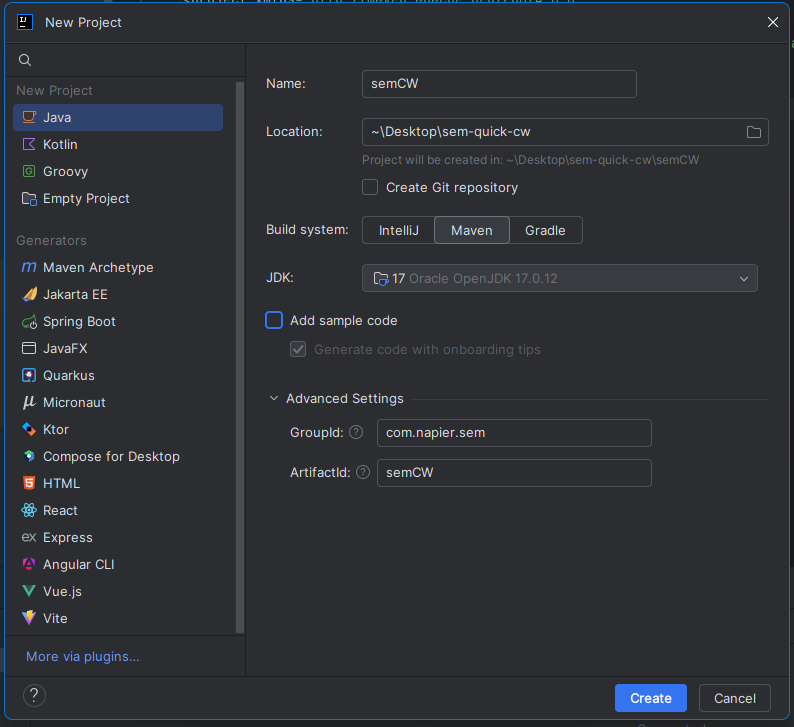
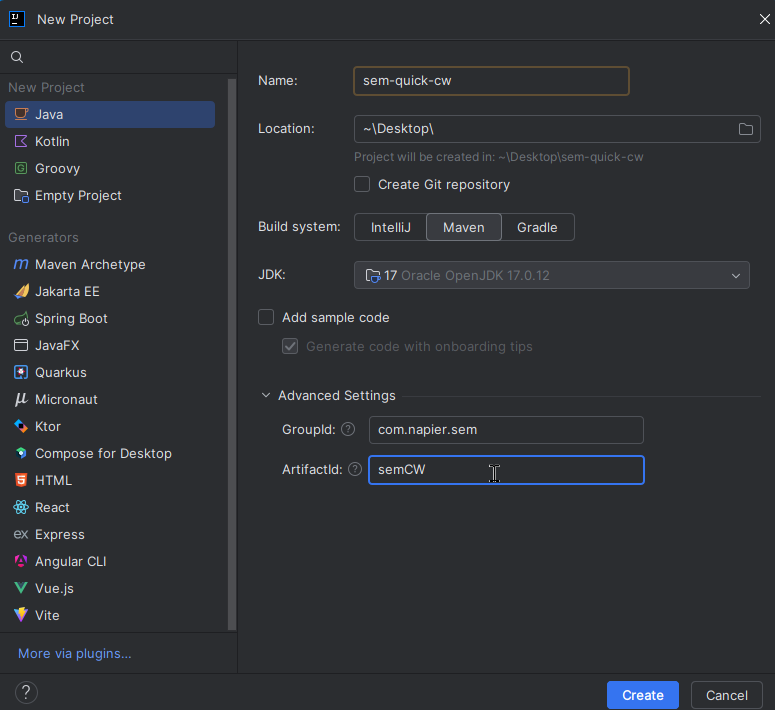
CW Basic Setup

diff --git a/README.md b/README.md
@@ -6,11 +6,11 @@ Create a new repository on GitHub
 
 I added a LICENCE(Apache) .gitignore using Maven template and README.md
 
-Clone to your machine
+Clone to your machine (I cloned to Desktop)
 
 ![clone](img/clone.png)
 
-Create a new Maven project in that folder using Java 17
+Create a new Maven project named the same as the project (in the folder you cloned to (for me Desktop) using Java 17
 
 
 
